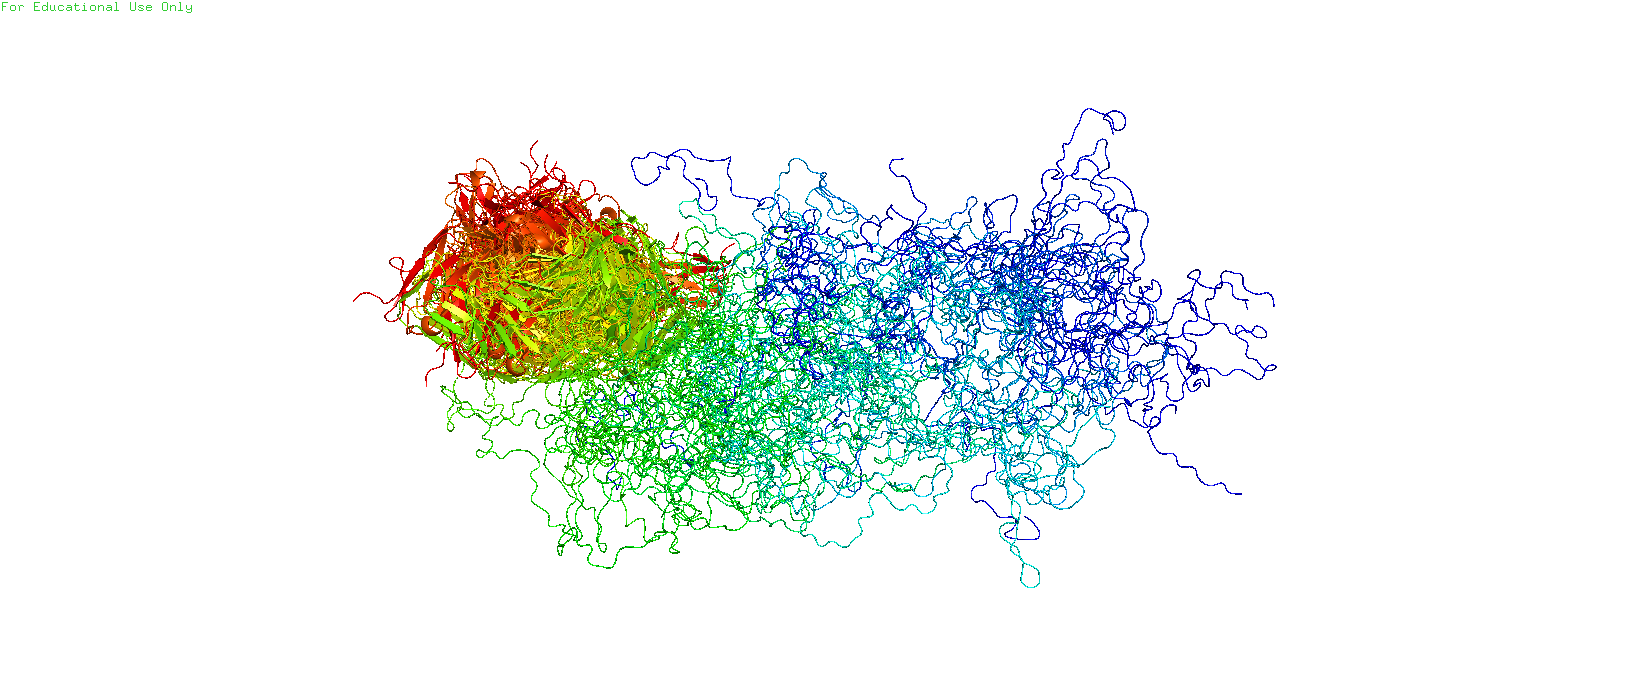
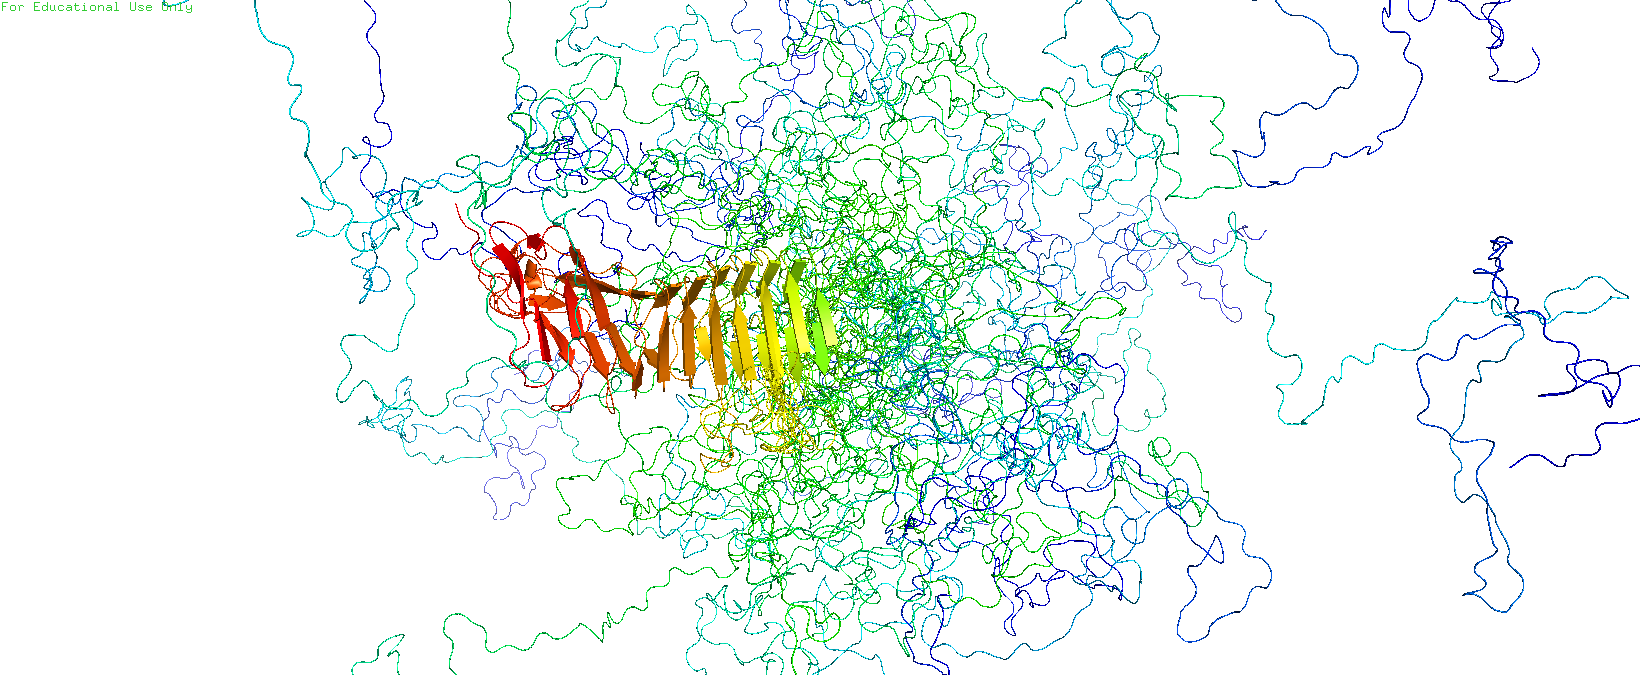
Updated images in README

diff --git a/scripts/align_structures.py b/scripts/align_structures.py
@@ -12,12 +12,13 @@ for i, f in enumerate(cif_files):
     selection = f"{obj_name} and name CA"
     cmd.spectrum("count", "rainbow", selection)
     
+    # Align only residues 1–30 using CA atoms
     if i == 0:
         ref_obj = obj_name
     else:
         cmd.align(
-            f"{obj_name} and name CA",
-            f"{ref_obj} and name CA"
+            f"{obj_name} and name CA and resi 366-536",
+            f"{ref_obj} and name CA and resi 366-536"
         )
 
 cmd.show("cartoon")

diff --git a/README.md b/README.md
@@ -97,7 +97,7 @@ pH = 7;
 srcutoff = 5.0;
 ene = -87.5/1000;
 DS = -14.5/1000;
-DCp = -0.3579/1000;
+DCp = -0.36/1000;
 T = 310;
 IS = 0.15;
 ```
@@ -148,8 +148,6 @@ The naming of the output conformers follows the pattern `<no of structured block
 The outputs in `\results\pools\pool_1\` for the above example are visualized below. These are possible conformations of the top 20 most probable microstates with 25-34 structured residues.
 
 ![Villin - Outputs in pool 1](/images/Villin_fig3.png)
-
-The script for aligning+coloring structures used by the author is provided in `\scripts\` as `align_structures.py`. When called from PyMol, it loads, aligns and colours all the .cif files present in the working directory. To use it, copy it into any of the `\results\pools\pool_n\` directories, and, with the same being the working directory in PyMol,  call it from PyMol using `run align_structures.py`. The output is saved as `aligned_session.pse` in the same directory.
 
 The user is of course encouraged to utilize their own visualization pipelines. The above is just for a quick visual.
 
@@ -228,7 +226,7 @@ The outputs in `\results\pools\pool_3\` for the above example are visualized bel
 
 ![Villin - Outputs in pool 1](/images/Pertactin_fig5.png)
 
-The script for aligning+coloring structures used by the author is provided in `\scripts\` as `align_structures.py`. When called from PyMol, it loads, aligns and colours all the .cif files present in the working directory. To use it, copy it into any of the `\results\pools\pool_n\` directories, and, with the same being the working directory in PyMol,  call it from PyMol using `run align_structures.py`. The output is saved as `aligned_session.pse` in the same directory.
+The script for aligning+coloring structures used by the author is provided in `\scripts\` as `align_structures.py`. The residues to be aligned can be modified in lines 19 and 20 (default value is set to align the C terminus residues 366-536 for the current Pertactin example). When called from PyMol, it loads, aligns and colours all the .cif files present in the working directory. To use it, copy it into any of the `\results\pools\pool_n\` directories, and, with the same being the working directory in PyMol,  call it from PyMol using `run align_structures.py` from the PyMol command line. The output is saved as `aligned_session.pse` in the same directory.
 
 The user is of course encouraged to utilize their own visualization pipelines. The above is just for a quick visual.
 
